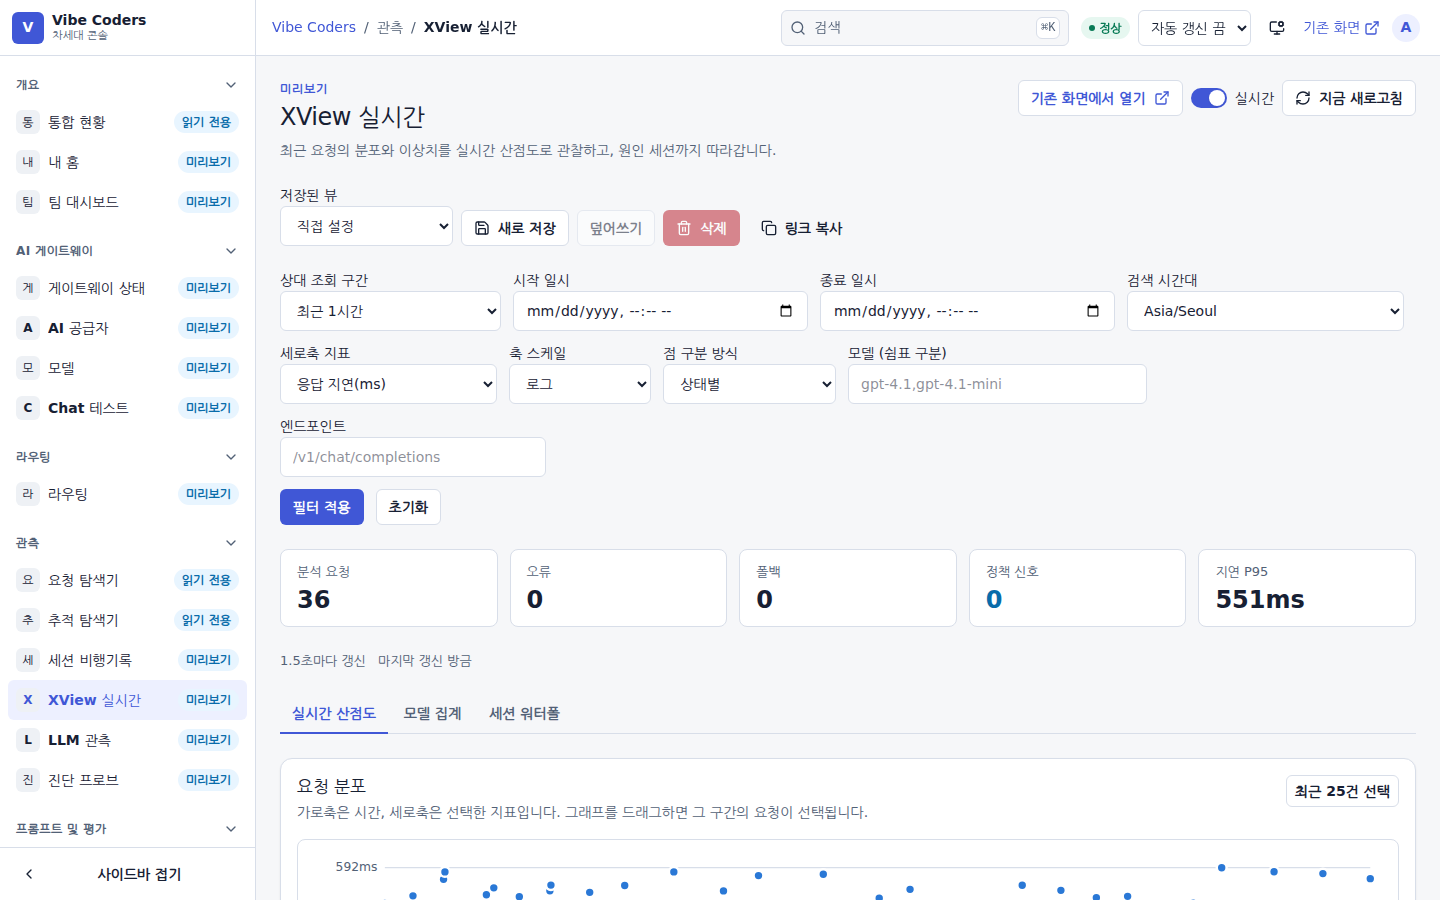
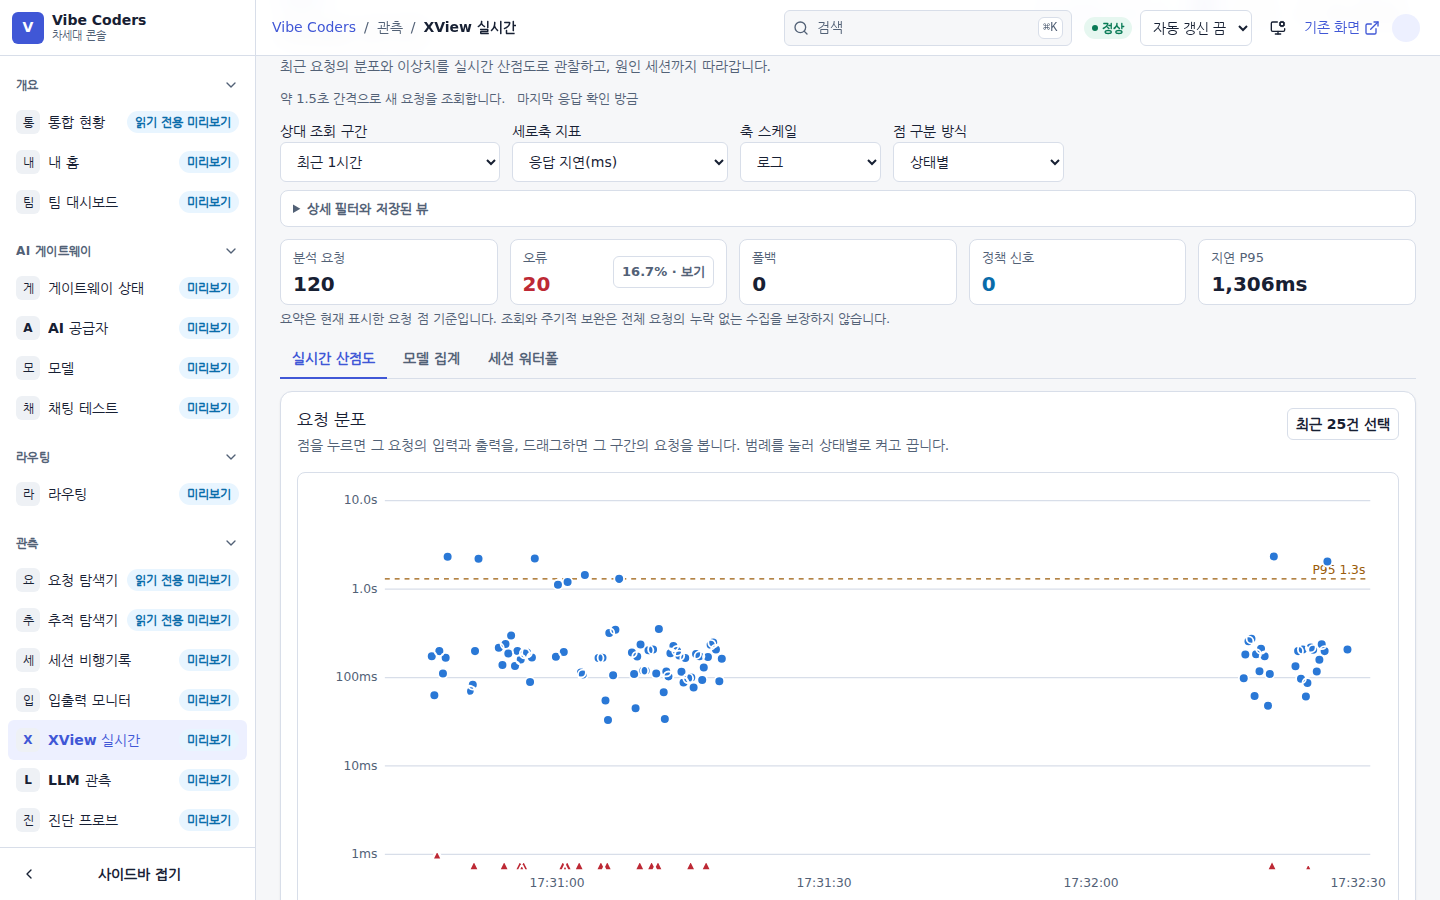
docs: describe the input/output monitor, XView, secret rotation and masking
Guides cover the new screens, masking on write, the reveal audit, the key limit
change and the reported cost change for reasoning models. The acceptance record
lists what was verified and the requirement gaps still open.

diff --git a/docs/APP_UI_ACCEPTANCE.md b/docs/APP_UI_ACCEPTANCE.md
@@ -3,6 +3,57 @@
 이 문서는 사용자 요구사항의 최종 인수 기준과 필수 브라우저 시나리오를 실제 구현·검사 근거에 연결한다.
 출고 기준선은 [`v0.86.61`](https://github.com/hkjang/vibe-coders/releases/tag/v0.86.61)이다.
 
+## 입출력 모니터·XView 재구성·수집 경로 보완 (`v0.86.62`)
+
+`v0.86.62`에 포함하며 전체 Phase 0–6 운영 인수나 Stable 승격 완료를 선언하지 않는다. 합성 응답을 쓰는
+브라우저 검사와 실제 Go 검사를 하나의 업무 E2E 근거로 합치지 않는다.
+
+**입출력 모니터 (`/app/observability/io`).** 요청마다 입력과 출력을 목록·상세로 나란히 보여 준다.
+`GET /admin/requests/io`는 최대 100건의 미리보기를 일괄 조회하며 역할과 관계없이 마스킹하고, 팀 범위
+밖 요청은 거부 대신 생략한다. `GET /admin/requests/{id}/io`는 전체를 주고 `?reveal=raw`는 원문 권한을
+확인한 뒤 `request.raw_view` 감사가 저장돼야만 원문을 돌려준다. 저장 꺼짐과 기록 없음을 구분한다. 검색어는
+수신한 행 안에서만 걸러 주소에 남지 않고, 원문은 화면 상태에만 두어 다른 요청으로 옮기면 지운다. 저장된
+JSON·SSE에서 답변·도구 호출·오류를 읽어 내므로 기존 행도 내용을 볼 수 있다. 마스킹은 비밀값을 제자리에서
+바꾸고 판단이 어려운 경우 해당 줄만 숨긴다. 이름 없는 비밀값이나 자연어 개인정보까지 찾는 보장은 아니다.
+
+**XView.** 1440×900에서 산점도가 첫 화면에 들어오도록 구성을 바꿨다. 같은 모양의 점을 경로 하나로 그려
+DOM 증가를 없앴고, 선택 목록은 100행씩 그린다. 시간 축은 서버 시각 기준이며 지표 축은 반올림 눈금을 쓴다.
+점 선택·범례 전환·요약·최근 입출력·한글 처리 단계를 추가했다. 상세 필터와 저장된 뷰는 접어 두므로
+해당 조작 전에 펼쳐야 한다.
+
+**게이트웨이 비밀키 교체 (`/app/system/secrets`).** 사전 점검 4항목, 키 재입력, 문구 재입력을 거쳐 한 번만
+보낸다. 인증 갱신 뒤에도 재전송하지 않고, 연결 끊김·시간 초과·5xx·해석 불가 응답은 결과 불명으로 안내한다.
+키는 화면 상태에만 있으며 성공하거나 결과가 불명이면 지운다. 실제 게이트웨이에서 화면으로 교체한 뒤 행 수와
+`secrets.rotate` 감사를 확인했고, 새 키로 재기동해 호출이 되는 것을 확인했다. 운영 환경 검증, 복구 자동화,
+다중 서버 조정과 무중단 교체는 잔여다.
+
+**수집 경로 수정.** 서버 동작이 바뀌므로 출고 전 운영자에게 알린다.
+
+- 응답 텍스트·도구 인수·오류 본문을 저장하기 전에 마스킹한다. 입력은 이전처럼 마스킹본을 저장하고 원문은
+  `LOG_RAW_PROMPTS`·`LOG_RAW_BODIES`를 켤 때만 남는다. 이미 원문으로 저장된 과거 응답은 다시 쓰지 않으며 화면에서 마스킹한다.
+- `{"password":"..."}`처럼 키가 따옴표로 끝나는 형식, 도구 인수 안의 이스케이프된 형식을 마스킹한다.
+- 키의 스코프·모델 목록·예산과 거버넌스를 `/v1/responses`, `/v1/completions`, `/v1/messages`에도 적용한다.
+  이전에는 `/v1/chat/completions`에만 걸려 있어 우회할 수 있었다. `chat:completion` 스코프 없는 키는 이제 이 경로를
+  호출할 수 없다. 이미지·오디오 등 나머지 `/v1/*`에는 여전히 걸리지 않는다.
+- `/v1/responses`의 입력·토큰·비용을 기록하고, `/v1/messages` 입력도 기록한다.
+- 추론 토큰을 이중 과금하지 않는다. `total_tokens`로 보고 방식을 구분해 포함된 경우 더하지 않는다.
+  **추론 모델의 보고 비용이 줄어들며 과거 행은 다시 계산하지 않는다.**
+- 잘리거나 복사가 실패한 응답을 캐시하지 않는다. 이전에는 재요청이 깨진 JSON을 `HIT`로 받을 수 있었다.
+- 스트림도 `LOG_RESPONSE_MAX_BYTES`를 지키고, 메모리를 응답당 16MiB로 제한한다. 한도를 넘은 응답도 사용량을 잃지 않는다.
+- 업스트림에는 `Accept-Encoding`을 그대로 전달하지 않고 전송 계층의 gzip만 쓴다.
+- 업스트림 오류와 스트림 내 오류를 `request_logs.error`에 마스킹해 기록한다. 클라이언트 연결 끊김은 공급자 실패로
+  세지 않도록 종료 사유 `client_disconnected`로 남긴다.
+- 미디어 입력은 base64 대신 자리표시자로 저장하고 토큰 추정에서 뺀다. 도구만 호출한 스트림은 인수로 추정한다.
+- 가격 조회 실패를 캐시하지 않고, 연결이 끊긴 요청도 가격을 계산한다.
+- 응답 없는 `/v1/models` 조회와 MCP 호출이 메모리에 남기던 항목을 지운다.
+
+**다음 후보.** 코드 대조로 확인한 요구사항 격차이며 크기순이 아니라 사용자 가치순이다. 정적 검토이므로 착수 전에
+다시 확인한다. Golden Prompt·Golden Workflow·Context Registry·Prompt Product·Promotion 화면(§21), 라우팅 규칙의 끌어
+놓기·초안 미리보기·전후 비교·훈련 이력(ROUTING-001/002/006/007/010), JSON·SQL·프롬프트 전용 편집기(FORM-013), 설정
+가져오기의 비교·전체 검증(SET-004/009), 통합 현황의 MCP·Text2SQL·장애·최근 변경·알림(§17.1), 전역 검색의 모델·규칙·
+사용자·팀·키(§31), 즐겨찾기와 맥락 패널(GOAL-009, NAV-008/009), 표의 행 선택·일괄 작업·가상화(TABLE-005/008/013),
+비용·보안의 미이전 화면(§22, §28, §29)과 OKF(§27.5). 운영 Keycloak·HTTPS 검증, 관측 기간, Stable 승격은 운영 결정이다.
+
 ## 게이트웨이 비밀키 교체 저장소 보완 후보
 
 실제 AES-GCM 회귀에서 JSON 문자열로 저장한 비밀 관리자 설정과 SSO 클라이언트 비밀값이
@@ -3377,7 +3428,7 @@ v49 원격 CI·메인 병합·새 정식 이미지·태그·공개 파일 검증
    좁은 회귀 근거를 전체 영향 검토 완료로 세지 않는다.
 4. 정책 일괄 가져오기는 v37의 전체 검증·원자적 적용·파일 대상 재적용까지 구현했다.
    cp4 로컬 게이트와 후속 원격/출고 검증을 확인했으며 운영 복구·다중 pod 전환은 별도다. 전체 DB 복구로 확대 해석하지 않는다.
-   게이트웨이 비밀키 회전·복구는 잔여다. 개인 API Key 회전을 서버 비밀키 회전 완료로 세지 않는다.
+   게이트웨이 비밀키 회전 화면은 v62에 포함하며 복구 자동화는 잔여다. 개인 API Key 회전을 서버 비밀키 회전 완료로 세지 않는다.
 5. v45 XView는 기존 후보의 로컬 전체·후보 컨테이너·PR CI 통과 뒤 상세 캐시 P1이 추가 확인되어
    당시 출고를 보류했다. 이후 v45 XView 보완·v46 LLM 조회/초안 보호·v47의 좁은 위험 작업 보호를
    출고했다. 별도 동결했던 모델 탐색은 v48 후보로 재개해 현재 수신 목록의 정렬·표시 건수와

diff --git a/README.md b/README.md
@@ -154,6 +154,7 @@ named volume `proxy-gateway-data`에 유지됩니다. `down -v`는 사용하지 
 - 같은 화면의 `학습` → `규칙 적용` ([`v0.86.42` 출고](https://github.com/hkjang/vibe-coders/releases/tag/v0.86.42)): 추천과 실제 생성 조건을 구분하는 한글 검토를 제공한다. 서버의 낮음 0–33·보통 34–66·높음 67–100 경계를 따르고 알 수 없는 구간은 생성하지 않는다. 작업 유형은 메모일 뿐 조건이 아니므로 `*` 모델 패턴과 해당 복잡도의 모든 작업에 영향을 줄 수 있음을 확인한다. 현재 조회·권한 기준과 미확정 결과의 같은 창 재전송 보호를 적용하며 자동 학습 설정·도메인 승인 변경과 운영 Stable 승격은 별개다.
 - 같은 화면의 `도메인 라우팅 검토 큐` ([`v0.86.43` 출고](https://github.com/hkjang/vibe-coders/releases/tag/v0.86.43)): 승인·거절이 검토 상태와 검토 시각만 기록함을 한글로 확인한다. 현재 권한·조회·선택 수명을 재검사하고 정확한 ID/status 응답과 후속 조회를 구분한다. 성공 메타데이터에서 원문 query_text를 제외하고 오류 원문도 캐시에 남기지 않는 전용 처리를 추가한다. 조회 거부 시 이전 목록·창·캐시를 폐기한다. 서버는 원문을 계속 전송하며 반복·없는 ID에도 200을 반환하므로 실제 변경·CAS·원자적 감사·학습 예시 승격을 보장하지 않는다. PR #73·메인 CI와 공개 7개 파일 검증을 마쳤으며 실패·보완 이력과 운영 인수는 [인수 검증표](docs/APP_UI_ACCEPTANCE.md)에 구분한다.
 - 같은 화면의 `도메인 결정 로그` ([`v0.86.44` 출고](https://github.com/hkjang/vibe-coders/releases/tag/v0.86.44)): 요청 ID·라우트·기간으로 최근 최대 50건을 조회하고 이번 응답 안에서 20건씩 탐색한다. 선택한 기록과 연결 근거를 한글 상세로 확인하며 null 근거·후보 도구·기록 점수를 실제 호출이나 확률로 단정하지 않는다. 서버의 401/403 뒤 이전 내용과 상세를 폐기하고 해당 조회 기준의 자동 갱신 중단을 안내한다. 복구는 명시적 조회만 수행하며 라우팅·검토 상태를 변경하지 않는다. PR #74·메인 CI·최종 이미지와 공개 7개 파일 검증을 완료했다. 제한 목록·비원자적 근거·전송 원문과 운영 인수의 한계는 [인수 검증표](docs/APP_UI_ACCEPTANCE.md)에 구분한다.
+- `/app/observability/io` 입출력 모니터 (`v0.86.62`): 요청마다 입력과 출력을 목록·상세로 나란히 보여 준다. 저장된 응답에서 답변·도구 호출·오류를 읽어 내고, 저장하지 않은 경우와 기록이 없는 경우를 구분해 알린다. 내용은 기본으로 마스킹하며 원문 보기는 권한 확인과 감사 기록 저장을 거친다.
 - `/app/observability/xview` 실시간 조회·메모 복구 (`v0.86.45` 출고): 서버 시각을 기준으로 상대 조회 구간을 정리하고 주기 보완·메타데이터 재조회·커서 정체와 최근 6,000건 상한을 한글로 안내한다. 요약 P95는 현재 표시점의 최근접 순위 기준이며 전체 요청 통계가 아니다. 일반 갱신·구간 만료·503에서는 열린 선택과 메모 초안을 유지하고, 최종 읽기 거부에서는 이전 표시를 숨긴다. 같은 조회 소유자가 명시적으로 재조회하고 같은 요청을 다시 열 때만 입력 초안을 복구하며 최신 메모 확인 전 저장을 막는다. XView 메모 수정·삭제는 401 뒤 자동 재전송하지 않는다. 예비 검사와 최종 버전 검증·미확정 저장·서버 수집 한계는 [인수 검증표](docs/APP_UI_ACCEPTANCE.md)에서 구분한다.
 - `/app/observability/llm` 조회 격리·초안 복구 (`v0.86.46` 출고): 사용자·역할·팀·원문 조회 범위가 바뀌면 이전 목록·상세·비교와 입력을 분리한다. 최종 조회 거부 뒤에는 명시적으로 새 목록과 같은 요청을 확인해야 사용자 입력을 다시 열 수 있고, 메모 저장은 새 서버 메모 확인 전까지 잠긴다. 이미 전송한 피드백은 자동 재전송하지 않으며 늦은 결과가 새 편집을 종료하거나 성공 알림을 띄우지 않게 한다. 일반 조회 오류와 쓰기만 제한한 경우에는 초안을 유지한다. 같은 조회 수명의 일반 피드백 오류는 중복 가능성을 안내한 뒤 수동 재시도만 허용한다. 수정본 전체 UI 3,759개·고정 브라우저 910개와 서버·실제 로컬 인증·후보 컨테이너, PR #76·정확한 메인 CI·정식 태그 이미지·공개 7종 검증을 완료했다. 최초 실패와 검증 범위는 [인수 검증표](docs/APP_UI_ACCEPTANCE.md)를 따르며 운영 Stable 승격은 별도다.
 - `/app/governance/policies` 긴급 정지·운영 재개와 정책 사용·중지 (`v0.86.47` 출고): 진입·열린 확인창·전송 직전에 현재 기능별 쓰기 권한과 세션을 확인합니다. 제한 중 사유를 유지하고 한글 잠금 안내를 표시하며 권한 복구만으로 전송하지 않습니다. 두 UI 변경 호출 지점에서만 POST의 401 자동 재전송을 끄며 같은 API의 다른 호출자는 유지합니다. 독립 기준선·최초 선택자 실패·예비 검사와 최종 UI 3,790개·브라우저 919개 및 출고 검증 이력은 [인수 검증표](docs/APP_UI_ACCEPTANCE.md)에 보존합니다. 다른 정책 작업·전체 영향 검토·CAS·늦은 ACK 전체 보호·정확히 한 번 처리를 완료한 것은 아닙니다.

diff --git a/docs/ADMIN_GUIDE.md b/docs/ADMIN_GUIDE.md
@@ -190,7 +190,7 @@ curl -s https://<공개 주소>/admin/mcp/oauth -H "Authorization: Bearer <admin
 
 | 이름 | 기본값 | 설명 |
 | --- | --- | --- |
-| `LOG_RAW_PROMPTS` / `LOG_RAW_BODIES` / `LOG_RESPONSE_TEXT` | `false` | 원문 저장. 켜면 마스킹 전 본문이 DB 에 남습니다 |
+| `LOG_RAW_PROMPTS` / `LOG_RAW_BODIES` / `LOG_RESPONSE_TEXT` | `false` | `LOG_RAW_PROMPTS`·`LOG_RAW_BODIES`는 마스킹 전 입력 원문을 DB에 남깁니다. `LOG_RESPONSE_TEXT`는 응답 텍스트를 개인정보·비밀값을 마스킹해 저장하며, 꺼져 있으면 입출력 모니터의 출력에는 상태·종료 사유·도구 이름만 표시됩니다 |
 | `LOG_RESPONSE_MAX_BYTES` / `LOG_QUEUE_SIZE` | `1 MiB` / `4096` | 응답 저장 상한·비동기 로그 큐 |
 | `RETENTION_REQUEST_DAYS` / `_PROMPT_DAYS` / `_RESPONSE_DAYS` | `90` / `30` / `30` | 보존 일수 |
 | `RETENTION_TEXT2SQL_REPLAY_DAYS` / `_DOMAIN_EXAMPLE_DAYS` / `RETENTION_INTERVAL` | `30` / `365` / `1h` | 보존 일수·정리 주기 |
@@ -1818,6 +1818,9 @@ A. 현재 PATCH 는 status 만 받습니다. 이름을 바꾸려면 같은 키 I
 
 **Q. 프롬프트 원문도 보고 싶어요.**
 A. 운영 정책상 기본 OFF 입니다. 게이트웨이를 재기동할 때 `LOG_RAW_PROMPTS=true` 를 설정하면 이후 호출의 원문이 `prompt_logs.content_text` 컬럼에 저장됩니다(이전 호출은 hash 만). 동시에 `LOG_RAW_BODIES=true` 면 요청 재실행도 가능해집니다. 원문 저장은 PII / 보안 리스크가 있으니 디스크 암호화와 접근 제한을 먼저 확보하세요.
+
+**Q. 입력과 출력을 한눈에 보고 싶어요.**
+A. `/app/observability/io` 입출력 모니터를 씁니다. 입력은 마스킹본이 항상 저장되지만 출력은 `LOG_RESPONSE_TEXT=true`(시스템 설정의 `logging.response_text`)일 때만 저장되며, 켠 뒤의 요청부터 적용됩니다. 저장 크기는 `LOG_RESPONSE_MAX_BYTES`로 제한합니다. 응답도 입력과 같이 개인정보·비밀값을 마스킹한 뒤 저장하고, 화면은 다시 마스킹해 보여 줍니다. 원문 보기는 `LOG_RAW_PROMPTS`로 따로 보관한 입력 원문이나 이 변경 전에 저장된 응답이 있을 때만 의미가 있습니다. API는 `GET /admin/requests/io?ids=...`(목록 미리보기, 역할과 관계없이 마스킹)와 `GET /admin/requests/{id}/io`(전체, `?reveal=raw`는 원문 권한과 감사 기록 저장이 필요)입니다. `/v1/chat/completions`, `/v1/responses`, `/v1/completions`, `/v1/embeddings`의 입력을 수집합니다.
 
 **Q. quota 가 너무 빨리 트리거되어 사용자가 불편해해요.**
 A. 안전 탭의 알림 규칙으로 80% 도달 시 미리 통보하도록 해두면 한도를 미리 조정할 수 있습니다.

diff --git a/docs/USER_GUIDE.md b/docs/USER_GUIDE.md
@@ -144,11 +144,14 @@ curl -sS http://proxy-gateway.intra:8080/v1/chat/completions \
 
 ![추적 탐색기 — 요청 한 건의 파이프라인 단계별 소요 시간](images/guide/observability-traces.png)
 
-### 3.4 세션 비행기록 · XView 실시간 · LLM 관측
+### 3.4 입출력 모니터 · 세션 비행기록 · XView 실시간 · LLM 관측
 
+- **입출력 모니터**: 게이트웨이를 지난 요청마다 입력과 출력을 나란히 봅니다. 목록은 마지막 사용자 메시지와 응답을 미리 보여 주고, 요청을 고르면 시스템 지시·이전 대화·도구 호출·토큰·지연·비용까지 펼칩니다. 개인정보와 비밀값은 저장할 때 마스킹하고 화면에서도 다시 마스킹하며, 권한이 있으면 **원문 보기**로 원문을 열 수 있고 그 사실은 감사 기록에 남습니다. 출력이 보이지 않으면 응답 본문 저장(`LOG_RESPONSE_TEXT`)이 꺼져 있는 것입니다. 화면 안내에서 설정으로 바로 이동합니다.
 - **세션 비행기록**: 같은 `X-Vibe-Session` 으로 묶인 에이전트 세션을 시간순으로 되짚습니다. 도구 호출·재시도·비용이 한 줄에 놓입니다.
-- **XView 실시간**: 트랜잭션 응답시간 분포를 점으로 실시간 표시합니다. 점을 클릭하면 그 요청이 왜 그렇게 처리됐는지 설명이 뜹니다.
+- **XView 실시간**: 트랜잭션 응답시간 분포를 점으로 실시간 표시합니다. 점에 올리면 요약이, 누르면 그 요청의 입력과 출력이 열립니다. 드래그하면 그 구간의 요청을 오류부터 모아 보여 주고, 범례를 눌러 상태별로 켜고 끕니다. 아래 **방금 들어온 요청**에서 최근 입력과 출력이 흘러가는 것을 볼 수 있습니다.
 - **LLM 관측**: 모델별 토큰·지연·오류율과 평가 결과입니다.
+
+![입출력 모니터 — 요청마다 입력과 출력을 나란히 본다](images/guide/observability-io.png)
 
 ![세션 비행기록 — 세션 단위로 묶인 호출을 시간순으로 본다](images/guide/observability-sessions.png)
 
